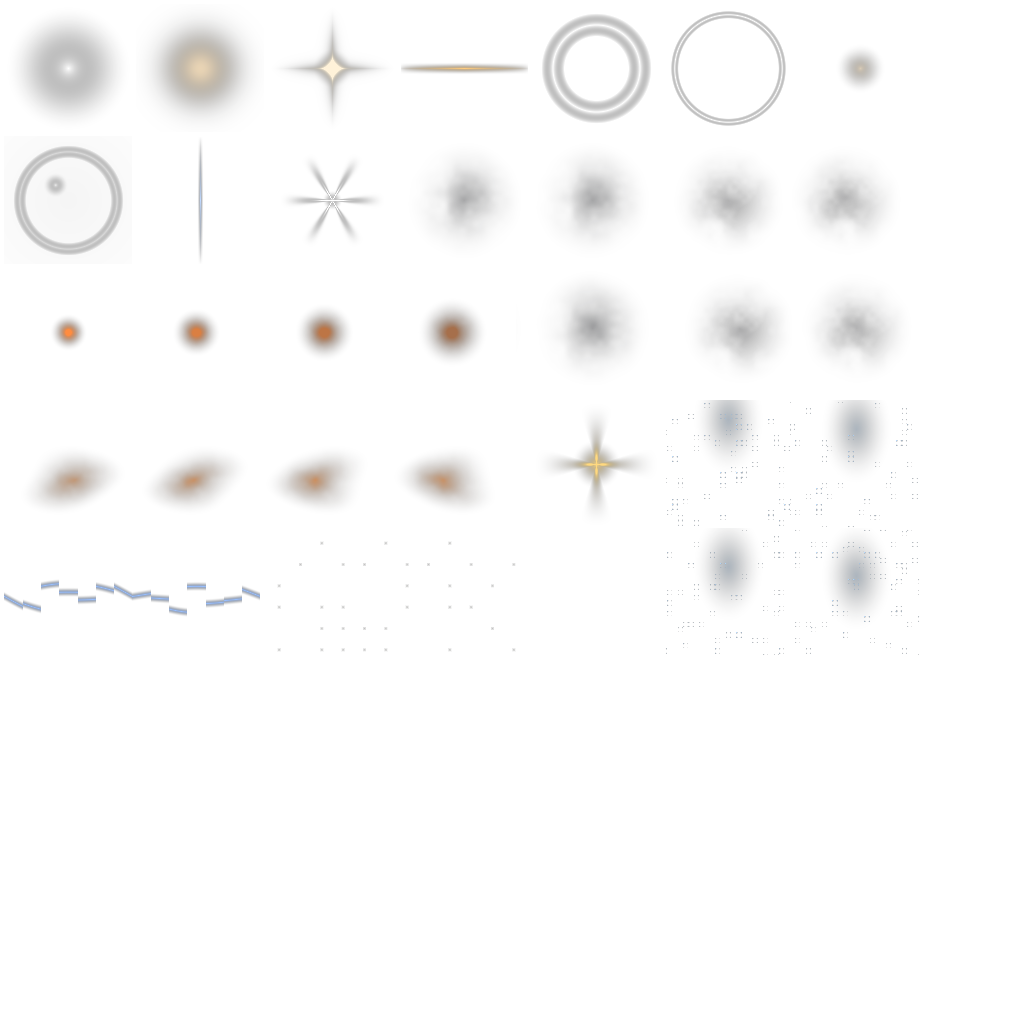
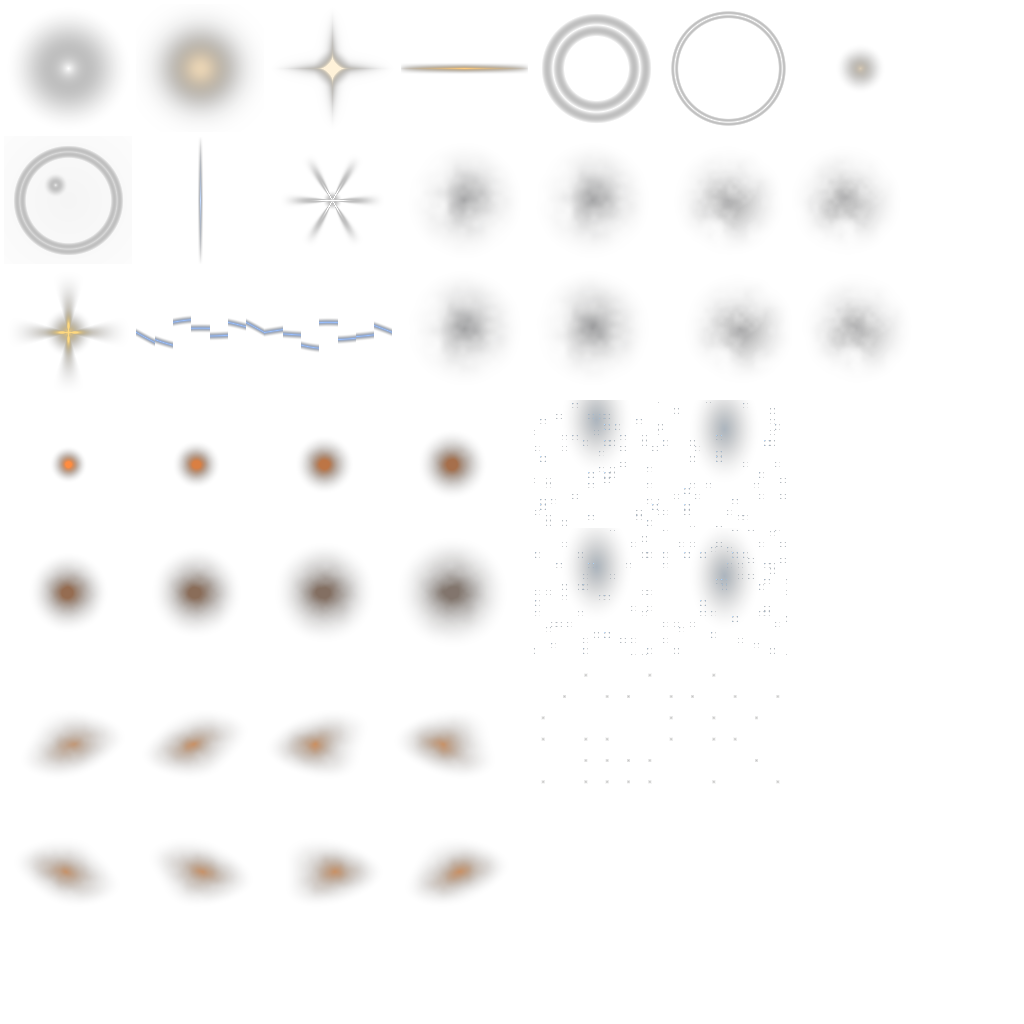
fix(vfx): re-bake the atlas without overlapping rows and install its matching layout
The baker advanced one cell row per layout row, so a two-row sequence was partly overwritten by the next one
(fireball over smoke-a, flame-loop over fireball, electric and debris-chips over flame-loop) and the runtime sampled
only each sequence's clean first row. The baker now packs deterministically (first fit, one full row per row), and
--runtime-layout writes the matching VFX_SPRITE_LAYOUT between its markers in one compact line per sequence.

Re-baked with `--seed 7 --size 2048 --sprites-only --runtime-layout` in node:22-bookworm-slim on Azure ACR
(no-push builds ch7eg and ch7eh): both runs produced identical bytes, so the output is reproducible.
aura-vfx-2k.png 632,553 -> 772,158 bytes (sha256 346f2d7c...), aura-vfx-1k.png 208,054 -> 262,110 (c9de2417...),
manifest.json (0164c935...). The pages, the manifest and the runtime table are installed as one set; the legacy and
packed staging tables and the VFX_PACKED_PAGES_INSTALLED flag are gone.

Now played in full: smoke-a 2x2 (4 frames, 12 fps), fireball 4x2 (8), flame-loop 4x2 (8, 16 fps); muzzle, splash,
electric and debris-chips moved; cycle times are unchanged. Both pages were inspected side by side: every sequence is
whole and isolated. Existing assertions that pinned the legacy overlap now pin the stricter invariant (no overlapping
rects anywhere, layout equals manifest for every sequence). Effects that sample these sequences change on screen, so
[…]

diff --git a/tests/unit/gu47/ef/vfx-atlas-sprites.test.ts b/tests/unit/gu47/ef/vfx-atlas-sprites.test.ts
@@ -74,7 +74,7 @@ describe("GU47 E-F item 1: atlas sprite lowering", () => {
     expect(plain.batch.atlasKey).toBe("soft-dot");
     expect(plain.emitter.key).toBe("eff.alpha.soft-dot.true.false.0");
     expect(softDot).toEqual(plain);
-    expect(smoke.sprite).toEqual({ kind: "builtin", name: "smoke-a", columns: 2, rows: 1, frames: 2, fps: 6, loop: true });
+    expect(smoke.sprite).toEqual({ kind: "builtin", name: "smoke-a", columns: 2, rows: 2, frames: 4, fps: 12, loop: true });
     expect(smoke.batch.atlasKey).toBe("vfx:smoke-a");
     expect(smoke.batch.frameBlend).toBe(true);
     expect(smoke.emitter.key).toContain(".vfx:smoke-a.");
@@ -99,27 +99,16 @@ describe("GU47 E-F item 1: atlas sprite lowering", () => {
 });
 
 describe("GU47 E-F item 1: built-in layout against the baked atlas", () => {
-  const adjusted = new Set(["smoke-a", "fireball", "flame-loop"]);
-
-  it("mirrors manifest.json; the three overlapping two-row sequences use their clean top row", () => {
+  it("mirrors manifest.json for every built-in sequence, full rows included", () => {
     for (const name of AURA_VFX_BUILTIN_SEQUENCES) {
       const baked = manifest.sequences[name];
       const layout = VFX_SPRITE_LAYOUT[name];
       expect(baked, name).toBeDefined();
-      if (!adjusted.has(name)) {
-        expect(layout, name).toEqual({ rect: baked.rect, columns: baked.columns, rows: baked.rows, frames: baked.frames, ...(baked.fps ? { fps: baked.fps } : {}), ...(baked.loop ? { loop: true } : {}) });
-        continue;
-      }
-      // Top row of the baked rect: same origin and width, one cell row, same cycle time when looping.
-      expect(layout.rect).toEqual([baked.rect[0], baked.rect[1], baked.rect[2], baked.rect[3] / baked.rows]);
-      expect(layout.rows).toBe(1);
-      expect(layout.columns).toBe(baked.columns);
-      expect(layout.frames).toBe(baked.columns);
-      if (baked.loop) expect(layout.frames / layout.fps!).toBeCloseTo(baked.frames / baked.fps!, 6);
+      expect(layout, name).toEqual({ rect: baked.rect, columns: baked.columns, rows: baked.rows, frames: baked.frames, ...(baked.fps ? { fps: baked.fps } : {}), ...(baked.loop ? { loop: true } : {}) });
     }
   });
 
-  it("the baked manifest overlaps exactly where the bake advanced one row per two-row sequence; the runtime layout does not", () => {
+  it("neither the baked manifest nor the runtime layout has overlapping sequence rects, and every rect fits its page and cell grid", () => {
     const names = Object.keys(manifest.sequences);
     const bakedPairs: string[] = [];
     for (let i = 0; i < names.length; i++) {
@@ -127,8 +116,8 @@ describe("GU47 E-F item 1: built-in layout against the baked atlas", () => {
         if (overlaps(manifest.sequences[names[i]].rect, manifest.sequences[names[j]].rect)) bakedPairs.push([names[i], names[j]].sort().join("|"));
       }
     }
-    // If the atlas is re-baked without overlaps this list empties: restore the manifest rows in VFX_SPRITE_LAYOUT then.
-    expect(bakedPairs.sort()).toEqual(["debris-chips|flame-loop", "electric|flame-loop", "fireball|flame-loop", "fireball|smoke-a"].sort());
+    // The bake advances one full cell row per layout row (deterministic first-fit pack), so no two sequences share a cell.
+    expect(bakedPairs).toEqual([]);
     const layoutNames = Object.keys(VFX_SPRITE_LAYOUT) as (keyof typeof VFX_SPRITE_LAYOUT)[];
     for (let i = 0; i < layoutNames.length; i++) {
       const a = VFX_SPRITE_LAYOUT[layoutNames[i]];
@@ -144,8 +133,8 @@ describe("GU47 E-F item 1: built-in layout against the baked atlas", () => {
 
   it("the 1k twin uses a 132 px cell pitch (128 px cells, same 4 px gutter)", () => {
     expect(vfxSpriteRect(VFX_SPRITE_LAYOUT["dust-mote"], 1024)).toEqual([4 + 6 * 132, 4, 128, 128]);
-    expect(vfxSpriteRect(VFX_SPRITE_LAYOUT.splash, 1024)).toEqual([4 + 5 * 132, 4 + 3 * 132, 256, 256]);
-    expect(vfxSpriteRect(VFX_SPRITE_LAYOUT.splash, 2048)).toEqual([1304, 784, 512, 512]);
+    expect(vfxSpriteRect(VFX_SPRITE_LAYOUT.splash, 1024)).toEqual([4 + 4 * 132, 4 + 3 * 132, 256, 256]);
+    expect(vfxSpriteRect(VFX_SPRITE_LAYOUT.splash, 2048)).toEqual([1044, 784, 512, 512]);
     expect(vfxSpritePageSize("low")).toBe(1024);
     expect(vfxSpritePageSize("medium")).toBe(1024);
     expect(vfxSpritePageSize("high")).toBe(2048);
@@ -232,7 +221,7 @@ describe("GU47 E-F item 1: ProductionEffectSystem samples the sprite once loaded
     step(0.2);
     system.feed(recordingHook());
     await system.spritesSettled();
-    expect(calls).toEqual([{ url: "/vfx/page-1024.png", rect: [4 + 5 * 132, 4 + 3 * 132, 256, 256] }]);
+    expect(calls).toEqual([{ url: "/vfx/page-1024.png", rect: [4 + 4 * 132, 4 + 3 * 132, 256, 256] }]);
     system.dispose();
   });
 
@@ -251,7 +240,7 @@ describe("GU47 E-F item 1: ProductionEffectSystem samples the sprite once loaded
     for (let i = 0; i < written.live; i++) {
       const frame = written.data[i * 16 + 13];
       expect(frame).toBeGreaterThanOrEqual(0);
-      expect(frame).toBeLessThan(2);
+      expect(frame).toBeLessThan(4);
       frames.add(Math.round(frame * 100));
       if (written.data[i * 16 + 12] !== 0) rotated++;
     }

diff --git a/packages/engine/src/production-runtime/effects/FlipbookAtlas.ts b/packages/engine/src/production-runtime/effects/FlipbookAtlas.ts
@@ -109,12 +109,10 @@ export interface VfxSpriteLayout {
 
 /**
  * Where each of the 18 built-in sequences sits on `packages/engine/assets/vfx/aura-vfx-2k.png`.
- * Mirrors `manifest.json` except for three sequences whose baked rows overlap: the bake tool advances one
- * cell row per layout row, so a two-row sequence is partly overwritten by the next row (`fireball` covers the
- * bottom-left cell of `smoke-a`, `flame-loop` covers the bottom row of `fireball`, `electric` and
- * `debris-chips` cover the bottom row of `flame-loop`). Those three sample only their clean top row here,
- * with the frame rate scaled so one cycle lasts as long as the baked sequence intends.
+ * The atlas baker can regenerate the marked table directly from the 2k manifest;
+ * install that table, the manifest and both PNG pages as one matching set.
  */
+// BEGIN VFX_SPRITE_LAYOUT
 export const VFX_SPRITE_LAYOUT: Readonly<Record<AuraVfxBuiltinSequence, VfxSpriteLayout>> = {
   "soft-dot": { rect: [4, 4, 256, 256], columns: 1, rows: 1, frames: 1 },
   glow: { rect: [264, 4, 256, 256], columns: 1, rows: 1, frames: 1 },
@@ -126,18 +124,16 @@ export const VFX_SPRITE_LAYOUT: Readonly<Record<AuraVfxBuiltinSequence, VfxSprit
   bubble: { rect: [4, 264, 256, 256], columns: 1, rows: 1, frames: 1 },
   "rain-streak": { rect: [264, 264, 256, 256], columns: 1, rows: 1, frames: 1 },
   snowflake: { rect: [524, 264, 256, 256], columns: 1, rows: 1, frames: 1 },
-  // Baked 2×2 at 12 fps; its bottom-left cell is overwritten by `fireball`.
-  "smoke-a": { rect: [784, 264, 512, 256], columns: 2, rows: 1, frames: 2, fps: 6, loop: true },
+  "smoke-a": { rect: [784, 264, 512, 512], columns: 2, rows: 2, frames: 4, fps: 12, loop: true },
   "smoke-b": { rect: [1304, 264, 512, 512], columns: 2, rows: 2, frames: 4, fps: 12, loop: true },
-  // Baked 4×2; its bottom row is overwritten by `flame-loop`.
-  fireball: { rect: [4, 524, 1024, 256], columns: 4, rows: 1, frames: 4, fps: 24 },
-  // Baked 4×2 at 16 fps; its bottom row is overwritten by `electric` and `debris-chips`.
-  "flame-loop": { rect: [4, 784, 1024, 256], columns: 4, rows: 1, frames: 4, fps: 8, loop: true },
-  muzzle: { rect: [1044, 784, 256, 256], columns: 1, rows: 1, frames: 1 },
-  splash: { rect: [1304, 784, 512, 512], columns: 2, rows: 2, frames: 4, fps: 10 },
-  electric: { rect: [4, 1044, 512, 256], columns: 2, rows: 1, frames: 2, fps: 30, loop: true },
-  "debris-chips": { rect: [524, 1044, 512, 256], columns: 2, rows: 1, frames: 2, fps: 6 }
+  fireball: { rect: [4, 784, 1024, 512], columns: 4, rows: 2, frames: 8, fps: 24 },
+  "flame-loop": { rect: [4, 1304, 1024, 512], columns: 4, rows: 2, frames: 8, fps: 16, loop: true },
+  muzzle: { rect: [4, 524, 256, 256], columns: 1, rows: 1, frames: 1 },
+  splash: { rect: [1044, 784, 512, 512], columns: 2, rows: 2, frames: 4, fps: 10 },
+  electric: { rect: [264, 524, 512, 256], columns: 2, rows: 1, frames: 2, fps: 30, loop: true },
+  "debris-chips": { rect: [1044, 1304, 512, 256], columns: 2, rows: 1, frames: 2, fps: 6 }
 };
+// END VFX_SPRITE_LAYOUT
 
 /** True for the 18 built-in sequence names (`agent-api/vfx/atlas.ts`). */
 export function isVfxBuiltinSprite(name: unknown): name is AuraVfxBuiltinSequence {

diff --git a/tests/unit/gu47/ef/flipbook-texture.test.ts b/tests/unit/gu47/ef/flipbook-texture.test.ts
@@ -57,8 +57,8 @@ describe("GU47 E-F item 2: flipbook({ texture })", () => {
   it("a built-in sprite name uses that sequence and its grid", () => {
     const lowered = lowerEffectNode(effects.flipbook({ name: "torch", sprite: "flame-loop" }).toJSON() as EffectNodeLike);
     if (lowered.type !== "emitter") throw new Error("expected an emitter");
-    expect(lowered.sprite).toMatchObject({ kind: "builtin", name: "flame-loop", columns: 4, rows: 1, frames: 4 });
-    expect(lowered.emitter.flipbook).toMatchObject({ frames: 4, columns: 4, rows: 1 });
+    expect(lowered.sprite).toMatchObject({ kind: "builtin", name: "flame-loop", columns: 4, rows: 2, frames: 8 });
+    expect(lowered.emitter.flipbook).toMatchObject({ frames: 8, columns: 4, rows: 2 });
     expect(lowered.batch.atlasKey).toBe("vfx:flame-loop");
   });
 
